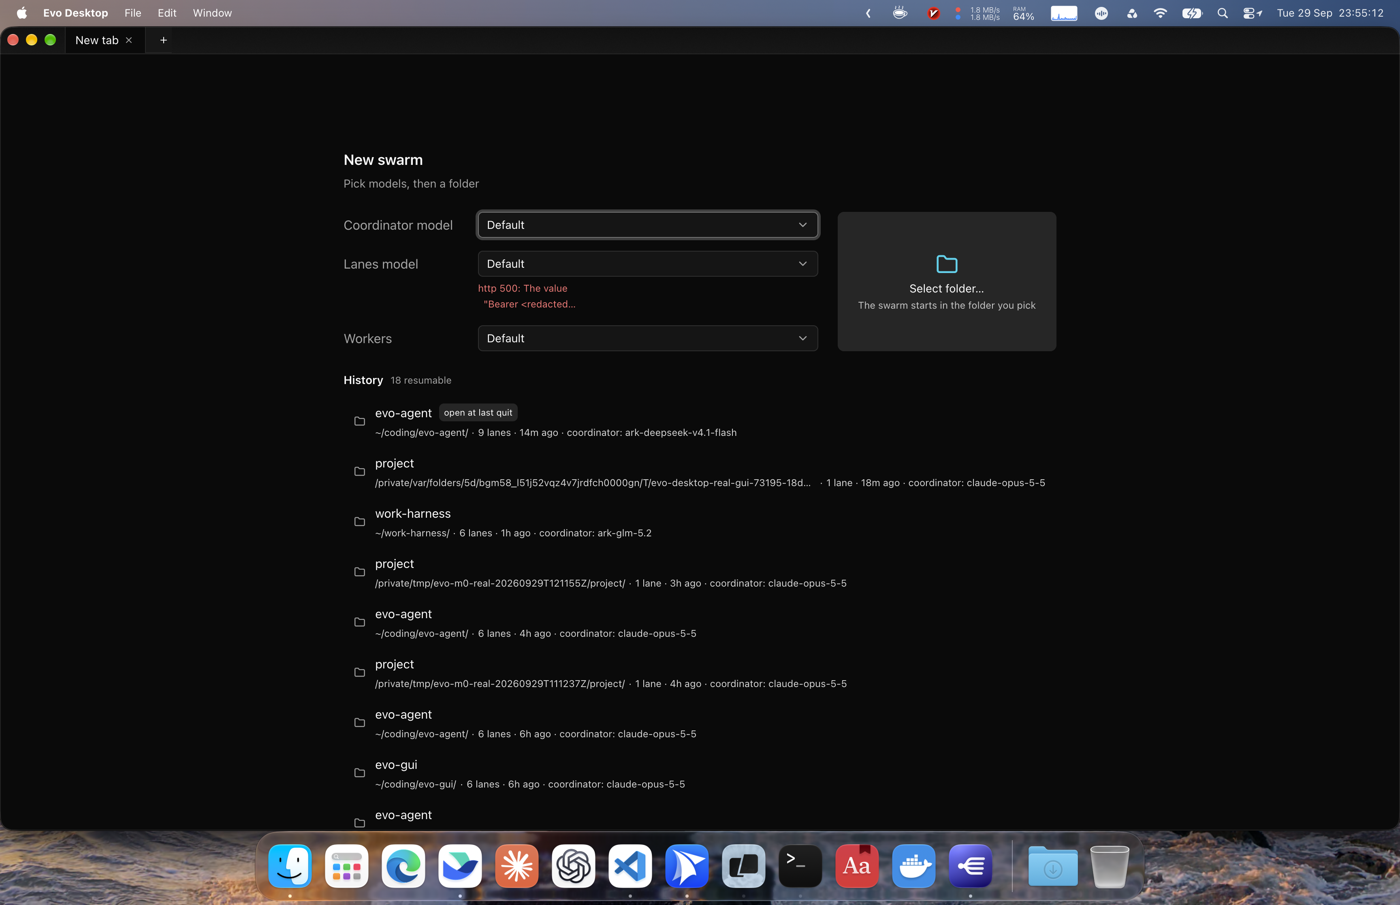
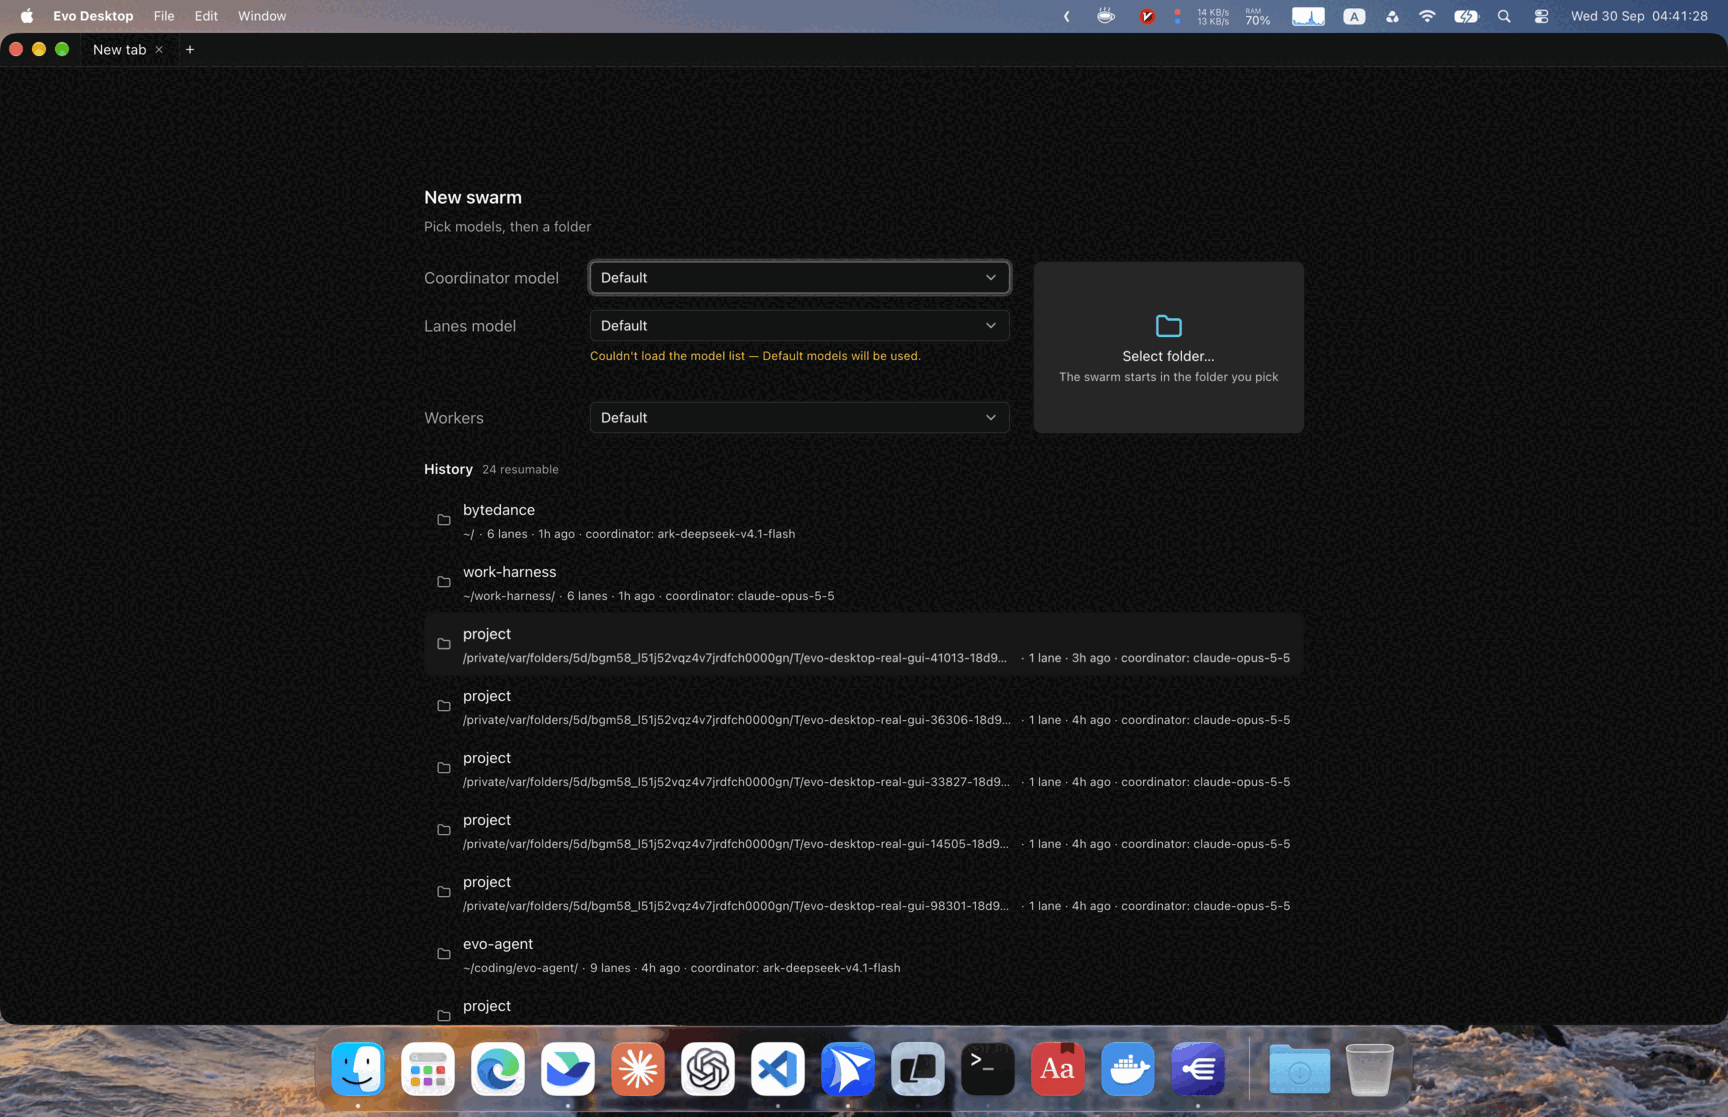
docs(proofs): the release bundle re-run on the finished tree
scripts/bundle.sh at f1448af, launched with `open` and the real HOME,
no swarm started: LaunchServices reports a foreground "Evo Desktop"
0.1.0 in front with its own Dock icon; app.log shows the window, the
dark system appearance, both binary versions, 24 real history rows and
the /registry 500 redacted, rendered on screen as the amber
couldn't-load line; Settings… opened from the app menu; ⌘Q walked the
shutdown ladder and left no process. docs/screens/real/bundle-launch.png
is re-taken from that launch, checked for private content.

diff --git a/docs/proofs.md b/docs/proofs.md
@@ -647,6 +647,75 @@ catalog probe it had spawned. One tab was open and none of them resumable, which
 is the journal rule: the tab was never spoken to, so it never wrote a journal to
 resume.
 
+### The release bundle on the finished tree — 2026-09-29 20:36–20:44 UTC
+
+The same pass as the section above with the day's later commits in: `f1448af`,
+`scripts/bundle.sh` exit 0, launched the way a user launches it — `open
+dist/evo-desktop.app`, so LaunchServices starts it, not the inner binary — with
+the **real** `$HOME` and no swarm started from the tab. The log, whole:
+
+```
+2026-09-29T20:36:26Z info  evo-desktop 0.1.0 starting (pid 15536, root /Users/bytedance/.evo/desktop)
+2026-09-29T20:36:26Z info  app.json: window 1728x992 at Some(0.0),Some(33.0), 6 recent(s), binaries /usr/local/bin/evo-swarm / /usr/local/bin/evo-agent
+2026-09-29T20:36:26Z info  window open
+2026-09-29T20:36:26Z info  window bounds 1728x992 at 0,33
+2026-09-29T20:36:26Z info  theme: dark (the system appearance)
+2026-09-29T20:36:26Z info  startup: cached catalog has 0 model(s), fetched never
+2026-09-29T20:36:26Z info  startup: 1 tab(s) will show it
+2026-09-29T20:36:26Z info  catalog: probing with /usr/local/bin/evo-agent (cache older than 86400s or missing)
+2026-09-29T20:36:26Z info  tab dirs: 11 kept, none old enough to prune
+2026-09-29T20:36:26Z info  versions: evo-swarm 0.1.0, evo-agent 0.1.0
+2026-09-29T20:36:27Z info  history: 24 row(s) (500 files read of 705 seen, stopped early)
+2026-09-29T20:36:28Z error catalog probe failed: http 500: The value
+  "Bearer <redacted>"
+is not of type
+  LIST
+2026-09-29T20:43:19Z info  menu: settings
+2026-09-29T20:43:19Z info  settings: evo-swarm /usr/local/bin/evo-swarm, evo-agent /usr/local/bin/evo-agent, theme system
+2026-09-29T20:43:43Z info  quitting: stopping every tab
+2026-09-29T20:43:44Z info  saved /Users/bytedance/.evo/desktop/app.json: 1 tab(s), 0 of them resumable
+2026-09-29T20:43:44Z info  shutdown: all 0 tab(s) exited
+2026-09-29T20:43:44Z info  stopped; exiting
+$ pgrep -f 'evo-desktop.app/Contents/MacOS/evo-desktop' | wc -l
+0
+```
+
+LaunchServices saw it the way it should: `lsappinfo list` reported
+`bundleID="com.evo.desktop"`, `type="Foreground"`, `Version="0.1.0"`, one pid, in
+front — and the Dock's own item list, read back through System Events, names the
+app where the picture shows its icon:
+
+```
+…, Warp, Terminal, Dictionary, Docker Desktop, evo-desktop, missing value, Downloads, Bin
+```
+
+**Settings…** was opened from the menu rather than by a keystroke: System Events
+clicked `Settings…` of `menu bar item "Evo Desktop"` of the foreground app, and
+the app logged the panel it built — `menu: settings`, then `settings: evo-swarm
+/usr/local/bin/evo-swarm, evo-agent /usr/local/bin/evo-agent, theme system` — with
+the panel over the window showing both paths, their versions, the theme row and
+Save/Cancel, the way `docs/screens/app/settings-light.png` and
+`docs/screens/app/settings-dark.png` render it headless.
+
+**The empty tab** drew the user's own history (24 rows, 500 of 705 files read
+inside the scan's budget) and the catalog probe's failure from
+`docs/proofs-real.md`'s finding R1, written as `Bearer <redacted>` — which the
+live screen now renders as the amber *Couldn't load the model list — Default
+models will be used.* line beside the choosers, in dark mode, because
+`app.json` says `system` and the Mac is dark.
+
+**⌘Q**, sent as a keystroke to the foreground app, walked the ladder and left
+nothing behind: no app, no catalog probe, `pgrep` at 0, and `app.json` holding
+one tab, none of them resumable (`1 tab(s), 0 of them resumable`).
+
+`docs/screens/real/bundle-launch.png` is this launch, re-taken at 1× and 192
+colours (1728×1117): the menu bar with `Evo Desktop` in front, the window under it
+with the real history, the amber R1 line and the empty tab's choosers, and the
+Dock at the bottom with the app's own icon between `Docker Desktop` and the
+`Downloads` folder. Nothing of any other window is in it — the app's window is as
+wide as the screen, so besides it the capture holds only the menu bar, the
+wallpaper and the Dock.
+
 ## M2 — relaunch, through the app
 
 The milestone's own proof, with the app's machinery rather than a model of it: two
